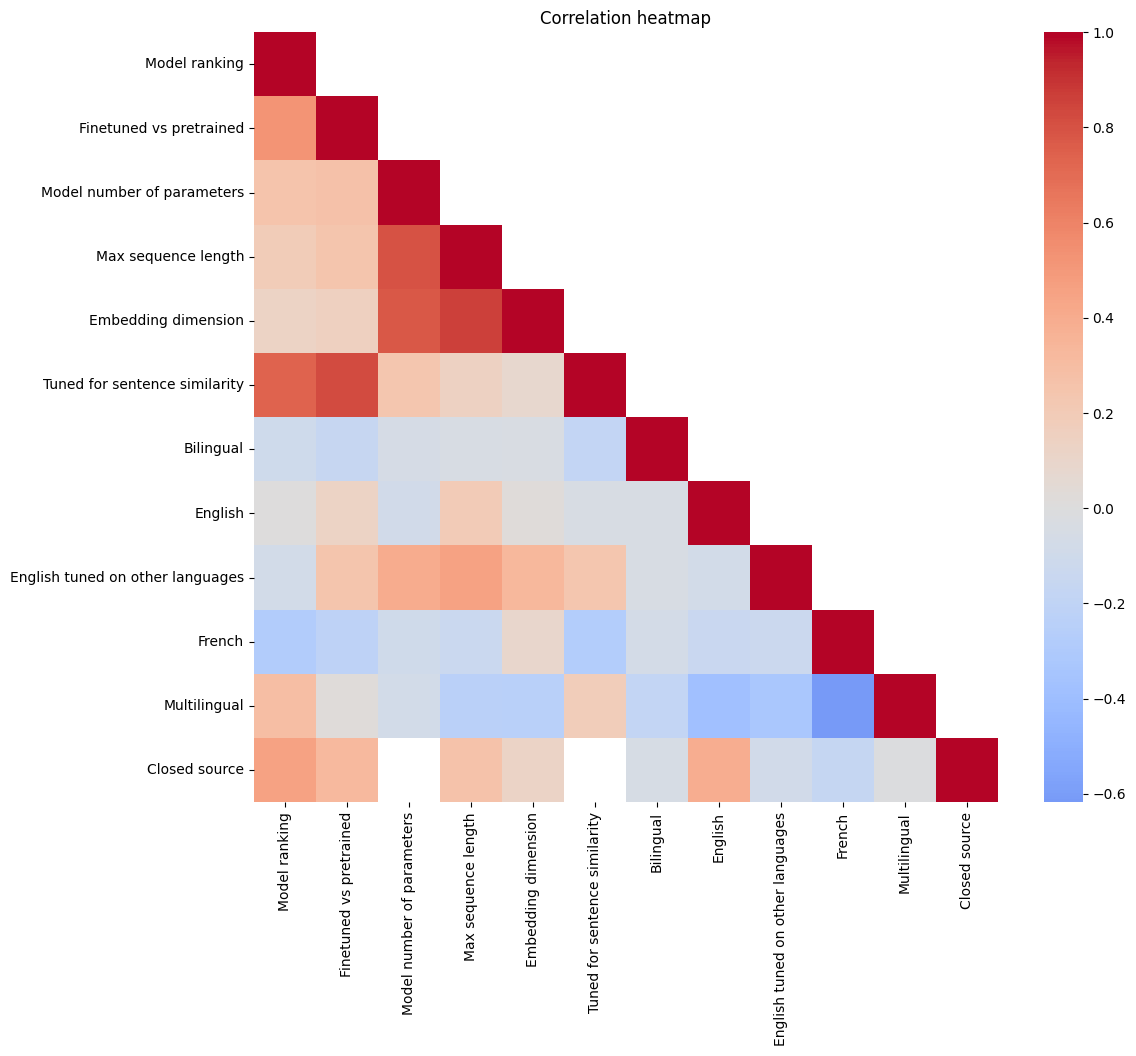
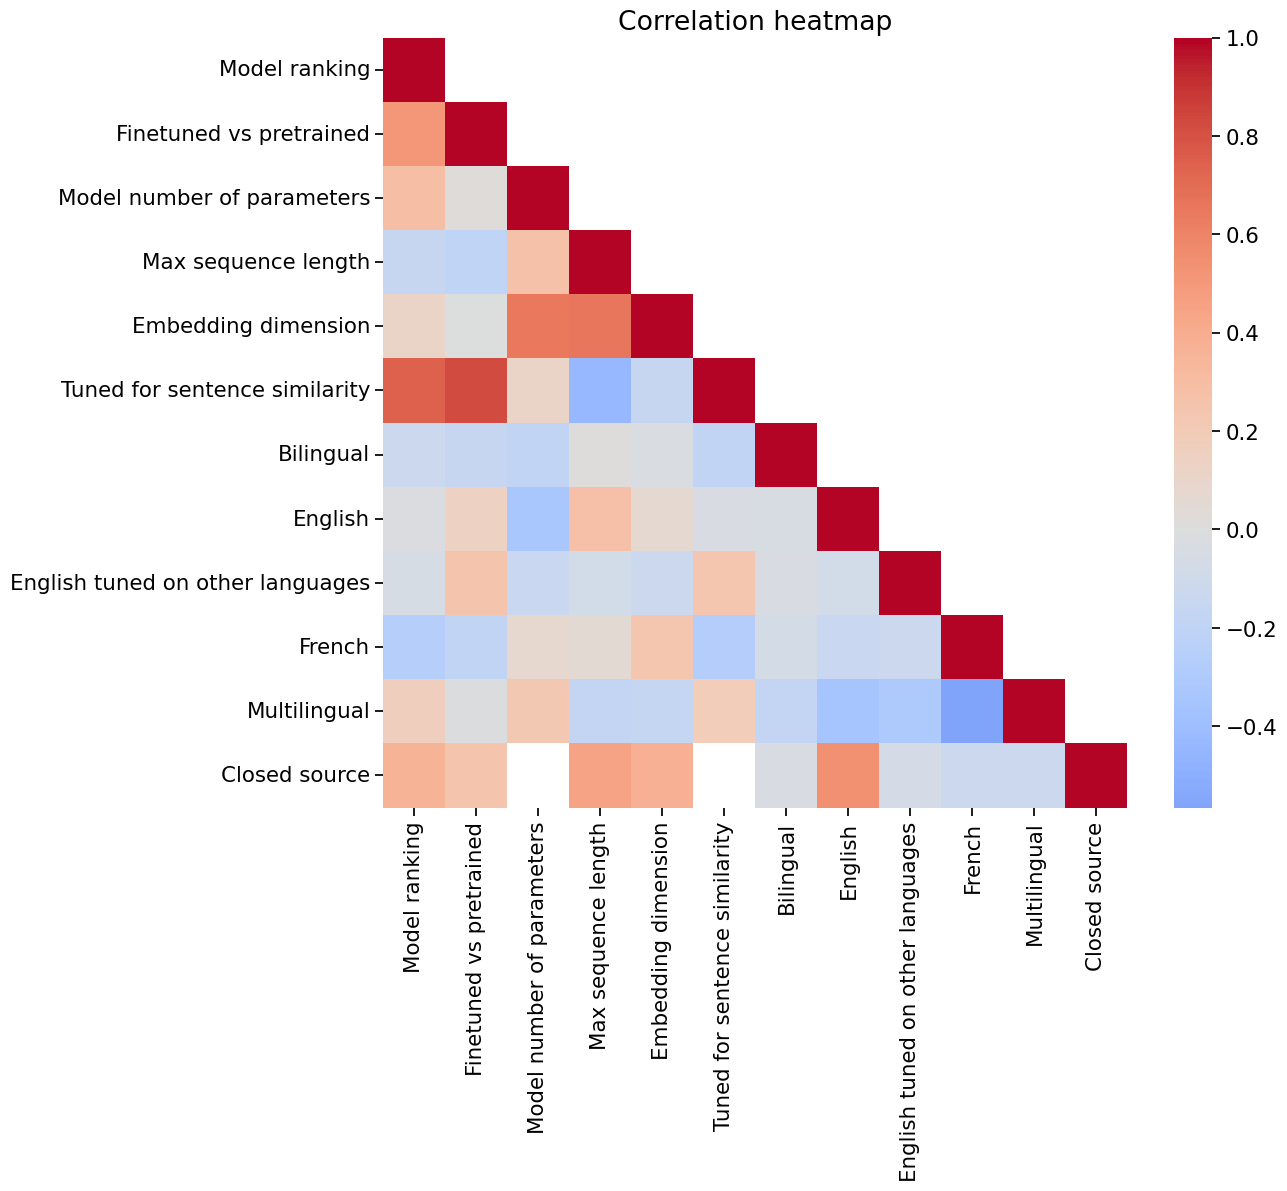
fix font size

diff --git a/script_mteb_french/results_analysis/performance_vs_characteristics.py b/script_mteb_french/results_analysis/performance_vs_characteristics.py
@@ -89,13 +89,16 @@ def global_correlation(
     data = data[list(COLS_TO_KEEP_GLOBAL_CORRELATION.keys())]
     data = data.rename(columns=COLS_TO_KEEP_GLOBAL_CORRELATION)
     # compute correlation matrix
-    corr_matrix = data.corr(method="pearson")
+    corr_matrix = data.corr(method="spearman")
+    corr_matrix.map(lambda x:round(x,3)).to_csv(os.path.join(output_path, "correlation_matrix.csv"))
     mask = np.tril(np.ones_like(corr_matrix, dtype=bool))
     corr_matrix = corr_matrix.where(mask)
     # plot correlation heatmap
     plt.figure(figsize=(12, 10))
+    with sns.plotting_context("notebook", font_scale=1.4):
+        sns.heatmap(corr_matrix, center=0, cmap="coolwarm")
+    plt.rcParams.update({'font.size': 16})
     plt.title("Correlation heatmap")
-    sns.heatmap(corr_matrix, center=0, cmap="coolwarm")
     plt.savefig(
         os.path.join(output_path, "correlation_heatmap.png"), bbox_inches="tight"
     )
